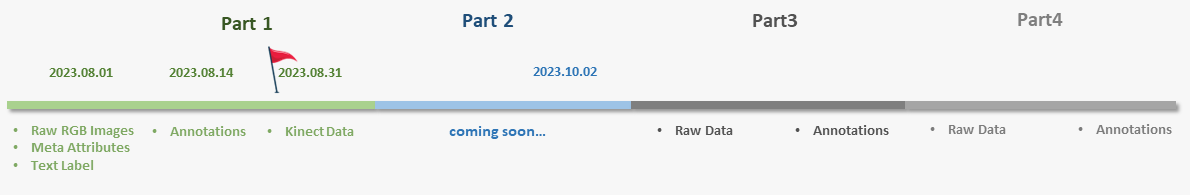
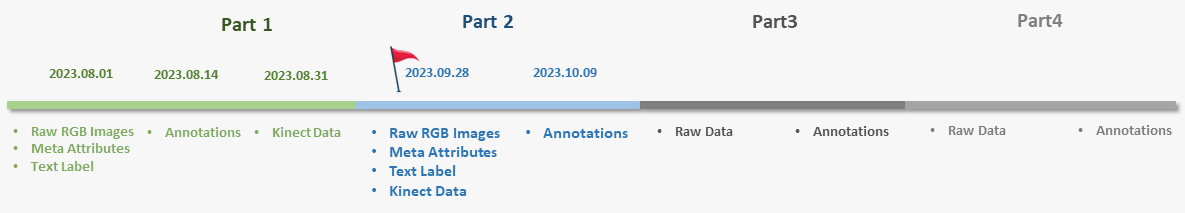
update info for part2

diff --git a/inner-download.html b/inner-download.html
@@ -152,7 +152,10 @@
           <h4>Overview</h4>
           <p>DNA-Rendering dataset contains 500 actors, 1500 outfits and 1187 motion types,and we captured over 5000 motion sequences in total. <br>
             In our <a href="https://arxiv.org/pdf/2307.10173.pdf"> technical report </a>,
-             part 1 (39 cases) is used for case specific benchmarks in Novel View Synthesis and Novel Pose Animation. The following information is available currently:
+             part 1 (39 cases) is used for case specific benchmarks in Novel View Synthesis and Novel Pose Animation, 
+             part 2 (400 cases) is used for benchmarks in Novel Identity Rendering. 
+             The following information is available currently:
+      <!--  
       <ul>
           <li> Actors: 37</li>
           <li> Motions Sequences: 39</li>
@@ -174,6 +177,101 @@
           <li> SMPLx: 8550</li>
           <li> Total storage: ~192GB</li>
       </ul>
+      -->
+      <div>
+        <table>
+          <tr>
+            <th></th>
+            <td><b>Part 1</b></td>
+            <td><b>Part 2</b></td>
+          </tr>
+          <tr>
+            <th>Actors</th>
+            <td>37</td>
+            <td>116</td>
+          </tr>
+          <tr>
+            <th>Motions Sequences</th>
+            <td>39</td>
+            <td>400</td>
+          </tr>
+          <tr>
+            <th>
+              RGB Cameras<br>
+              <div class="details">(with known camera matrix and color calibration parameters)</div>
+            </th>
+            <td colspan="2">60</td>
+            <!-- <td>60</td> -->
+          </tr>
+          <tr>
+            <th>Kinect Depth Cameras<br>
+              <div class="details">(with known camera matrix)</div>
+            </th>
+            <td colspan="2">8</td>
+            <!-- <td>8</td> -->
+          </tr>
+          <tr>
+            <th>Image Dimension<br>
+              <div class="details">(height x weight)</div>
+            </th>
+            <td colspan="2">
+                cameraID in [0, 47]: 2448 x 2048<br>
+                cameraID in [48, 59]: 4096 x 3000<br>
+                depth_cameraID in [0, 7]: 576 x 640
+            </td>
+          </tr>
+          <tr>
+            <th>Total RGB Frames<br>
+              <div class="details">(60 views)</div>
+            </th>
+            <td>513,000</td>
+            <td>4,999,500</td>
+          </tr>
+          <tr>
+            <th>Total Kinect Depth Frames<br>
+              <div class="details">(8 views)</div>
+            </th>
+            <td>68,400</td>
+            <td>666,600</td>
+          </tr>
+          <tr>
+            <th>Total Kinect Mask Frames<br>
+              <div class="details">(8 views)</div>
+            </th>
+            <td>68,400</td>
+            <td>666,600</td>
+          </tr>
+          <tr>
+            <th>2D keypoints<br>
+              <div class="details">(60 views)</div>
+            </th>
+            <td>51300</td>
+            <td>/</td>
+          </tr>
+          <tr>
+            <th>3D keypoints</th>
+            <td>8,550</td>
+            <td>/</td>
+          </tr>
+          <tr>
+            <th>Matting<br>
+              <div class="details">(60 views)</div>
+            </th>
+            <td>513,000</td>
+            <td>/</td>
+          </tr>
+          <tr>
+            <th>SMPLx</th>
+            <td>8,550</td>
+            <td>/</td>
+          </tr>
+          <tr>
+            <th>Total storage</th>
+            <td>~192GB</td>
+            <td>~1.8T</td>
+          </tr>
+        </table>
+      </div>
     </p>
           <h4>Timeline</h4>
             <center><a href="assets/img/timeline.png"><img src="assets/img/timeline.png" width="85%"></a><br></center>
@@ -309,7 +407,7 @@
 }</code></pre>
 
 <h4>Annotations Format</h4>
-Annotation is stored in SMC file through H5 format and each file is named as "{actorID}_{performanceID}.smc".<br>
+Annotation is stored in SMC file through H5 format and each file is named as "{actorID}_{performanceID}_annots.smc".<br>
 Structure of SMC file:
 <pre><code>{
     "Camera_Parameter": {                   # camera parameters defined in opencv coordination                     

diff --git a/assets/css/style.css b/assets/css/style.css
@@ -844,6 +844,56 @@ section {
   background-color: rgba(0, 0, 0, 0.01);
 }
 
+table{
+  width: 80%;
+  border-collapse: collapse;
+  margin: auto;
+}
+
+table tr{
+  border-bottom: solid 2px white;
+}
+
+table tr:last-child{
+  border-bottom: none;
+}
+
+table th{
+  position: relative;
+  width: 35%;
+  background-color: #7d7d7d;
+  color: white;
+  text-align: center;
+  padding: 10px 0;
+}
+
+table th:after{
+  display: block;
+  content: "";
+  width: 0px;
+  height: 0px;
+  position: absolute;
+  top:calc(50% - 10px);
+  right:-10px;
+  border-left: 10px solid #7d7d7d;
+  border-top: 10px solid transparent;
+  border-bottom: 10px solid transparent;
+}
+
+table td{
+  width: 30%;
+  text-align: center;
+  background-color: #eee;
+  padding: 10px 0;
+  border-right: solid 2px white;
+}
+
+th .details{
+  font-weight: 100;
+  font-size: 6px;
+}
+
+
 /* Facts Section
 --------------------------------*/
 #facts {
